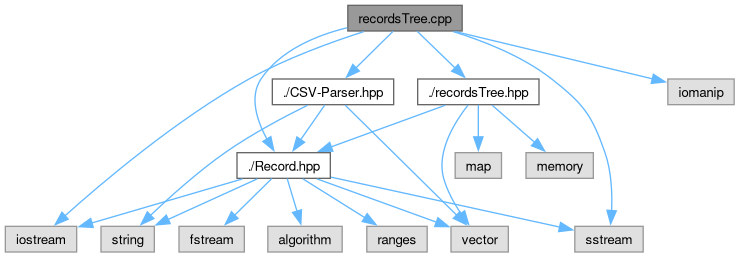
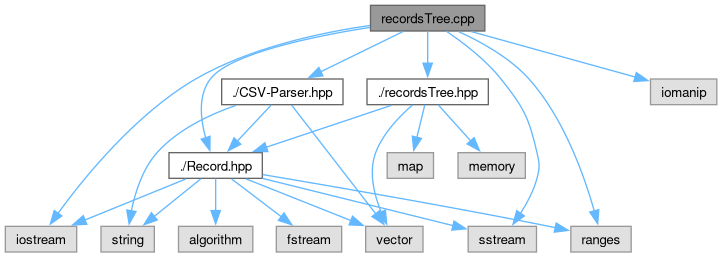
deploy: 806a59bf3311fabaa9fd05d6829696c645dc23da

diff --git a/recordsTree_8hpp_source.html b/recordsTree_8hpp_source.html
@@ -165,14 +165,14 @@ $(function(){initNavTree('recordsTree_8hpp_source.html',''); initResizable(true)
 <div class="ttc" id="aRecord_8hpp_html"><div class="ttname"><a href="Record_8hpp.html">Record.hpp</a></div></div>
 <div class="ttc" id="aclassRecord_html"><div class="ttname"><a href="classRecord.html">Record</a></div><div class="ttdef"><b>Definicja</b> Record.hpp:32</div></div>
 <div class="ttc" id="aclassRecordsTree_html"><div class="ttname"><a href="classRecordsTree.html">RecordsTree</a></div><div class="ttdef"><b>Definicja</b> recordsTree.hpp:45</div></div>
-<div class="ttc" id="aclassRecordsTree_html_a30c33765225f25033ddf4d9f48f968aa"><div class="ttname"><a href="classRecordsTree.html#a30c33765225f25033ddf4d9f48f968aa">RecordsTree::printRecord</a></div><div class="ttdeci">void printRecord()</div><div class="ttdef"><b>Definicja</b> recordsTree.cpp:104</div></div>
+<div class="ttc" id="aclassRecordsTree_html_a30c33765225f25033ddf4d9f48f968aa"><div class="ttname"><a href="classRecordsTree.html#a30c33765225f25033ddf4d9f48f968aa">RecordsTree::printRecord</a></div><div class="ttdeci">void printRecord()</div><div class="ttdef"><b>Definicja</b> recordsTree.cpp:105</div></div>
 <div class="ttc" id="aclassRecordsTree_html_a50c3e5a86d2cb0e8a1c068d033e0ed53"><div class="ttname"><a href="classRecordsTree.html#a50c3e5a86d2cb0e8a1c068d033e0ed53">RecordsTree::years</a></div><div class="ttdeci">std::map&lt; int, YearNode &gt; years</div><div class="ttdef"><b>Definicja</b> recordsTree.hpp:47</div></div>
-<div class="ttc" id="aclassRecordsTree_html_a6e63285e70bcf63eb2f08ca930c93c5e"><div class="ttname"><a href="classRecordsTree.html#a6e63285e70bcf63eb2f08ca930c93c5e">RecordsTree::addRecord</a></div><div class="ttdeci">void addRecord(const Record &amp;record)</div><div class="ttdef"><b>Definicja</b> recordsTree.cpp:42</div></div>
-<div class="ttc" id="aclassRecordsTree_html_a7bac39bf150951e4979a10bd62134f59"><div class="ttname"><a href="classRecordsTree.html#a7bac39bf150951e4979a10bd62134f59">RecordsTree::parseDateTime</a></div><div class="ttdeci">void parseDateTime(const time_t &amp;time, int &amp;year, int &amp;month, int &amp;day, Quarter &amp;quarter)</div><div class="ttdef"><b>Definicja</b> recordsTree.cpp:21</div></div>
-<div class="ttc" id="aclassRecordsTree_html_aa8d5678e420214b6f783897cdb26de4d"><div class="ttname"><a href="classRecordsTree.html#aa8d5678e420214b6f783897cdb26de4d">RecordsTree::sortRecords</a></div><div class="ttdeci">void sortRecords()</div><div class="ttdef"><b>Definicja</b> recordsTree.cpp:110</div></div>
-<div class="ttc" id="aclassRecordsTree_html_aad2cb37e4b0e5fc2344bb765467bb0aa"><div class="ttname"><a href="classRecordsTree.html#aad2cb37e4b0e5fc2344bb765467bb0aa">RecordsTree::printTree</a></div><div class="ttdeci">void printTree() const</div><div class="ttdef"><b>Definicja</b> recordsTree.cpp:100</div></div>
-<div class="ttc" id="aclassRecordsTree_html_ab7cb6e135ba73bda41454532253bffb6"><div class="ttname"><a href="classRecordsTree.html#ab7cb6e135ba73bda41454532253bffb6">RecordsTree::print</a></div><div class="ttdeci">void print(void(*callable)(const Record &amp;Record)) const</div><div class="ttdef"><b>Definicja</b> recordsTree.cpp:50</div></div>
-<div class="ttc" id="aclassRecordsTree_html_ad158c0a392345b8682fef8c664943765"><div class="ttname"><a href="classRecordsTree.html#ad158c0a392345b8682fef8c664943765">RecordsTree::getQuarter</a></div><div class="ttdeci">Quarter getQuarter(const std::string &amp;time)</div><div class="ttdef"><b>Definicja</b> recordsTree.cpp:9</div></div>
+<div class="ttc" id="aclassRecordsTree_html_a6e63285e70bcf63eb2f08ca930c93c5e"><div class="ttname"><a href="classRecordsTree.html#a6e63285e70bcf63eb2f08ca930c93c5e">RecordsTree::addRecord</a></div><div class="ttdeci">void addRecord(const Record &amp;record)</div><div class="ttdef"><b>Definicja</b> recordsTree.cpp:43</div></div>
+<div class="ttc" id="aclassRecordsTree_html_a7bac39bf150951e4979a10bd62134f59"><div class="ttname"><a href="classRecordsTree.html#a7bac39bf150951e4979a10bd62134f59">RecordsTree::parseDateTime</a></div><div class="ttdeci">void parseDateTime(const time_t &amp;time, int &amp;year, int &amp;month, int &amp;day, Quarter &amp;quarter)</div><div class="ttdef"><b>Definicja</b> recordsTree.cpp:22</div></div>
+<div class="ttc" id="aclassRecordsTree_html_aa8d5678e420214b6f783897cdb26de4d"><div class="ttname"><a href="classRecordsTree.html#aa8d5678e420214b6f783897cdb26de4d">RecordsTree::sortRecords</a></div><div class="ttdeci">void sortRecords()</div><div class="ttdef"><b>Definicja</b> recordsTree.cpp:111</div></div>
+<div class="ttc" id="aclassRecordsTree_html_aad2cb37e4b0e5fc2344bb765467bb0aa"><div class="ttname"><a href="classRecordsTree.html#aad2cb37e4b0e5fc2344bb765467bb0aa">RecordsTree::printTree</a></div><div class="ttdeci">void printTree() const</div><div class="ttdef"><b>Definicja</b> recordsTree.cpp:101</div></div>
+<div class="ttc" id="aclassRecordsTree_html_ab7cb6e135ba73bda41454532253bffb6"><div class="ttname"><a href="classRecordsTree.html#ab7cb6e135ba73bda41454532253bffb6">RecordsTree::print</a></div><div class="ttdeci">void print(void(*callable)(const Record &amp;Record)) const</div><div class="ttdef"><b>Definicja</b> recordsTree.cpp:51</div></div>
+<div class="ttc" id="aclassRecordsTree_html_ad158c0a392345b8682fef8c664943765"><div class="ttname"><a href="classRecordsTree.html#ad158c0a392345b8682fef8c664943765">RecordsTree::getQuarter</a></div><div class="ttdeci">Quarter getQuarter(const std::string &amp;time)</div><div class="ttdef"><b>Definicja</b> recordsTree.cpp:10</div></div>
 <div class="ttc" id="arecordsTree_8hpp_html_a90c364256882adf957d344b6e65e495a"><div class="ttname"><a href="recordsTree_8hpp.html#a90c364256882adf957d344b6e65e495a">Quarter</a></div><div class="ttdeci">Quarter</div><div class="ttdef"><b>Definicja</b> recordsTree.hpp:9</div></div>
 <div class="ttc" id="arecordsTree_8hpp_html_a90c364256882adf957d344b6e65e495aa3bb284154c27cd76e8dbac26517addbd"><div class="ttname"><a href="recordsTree_8hpp.html#a90c364256882adf957d344b6e65e495aa3bb284154c27cd76e8dbac26517addbd">Quarter::Q2</a></div><div class="ttdeci">@ Q2</div><div class="ttdef"><b>Definicja</b> recordsTree.hpp:11</div></div>
 <div class="ttc" id="arecordsTree_8hpp_html_a90c364256882adf957d344b6e65e495aa4eebf705200f6e823ef85d95711c3a6c"><div class="ttname"><a href="recordsTree_8hpp.html#a90c364256882adf957d344b6e65e495aa4eebf705200f6e823ef85d95711c3a6c">Quarter::Q3</a></div><div class="ttdeci">@ Q3</div><div class="ttdef"><b>Definicja</b> recordsTree.hpp:12</div></div>

diff --git a/recordsTree_8cpp.html b/recordsTree_8cpp.html
@@ -108,45 +108,47 @@ $(function(){initNavTree('recordsTree_8cpp.html',''); initResizable(true); });
 <code>#include &lt;iostream&gt;</code><br />
 <code>#include &lt;sstream&gt;</code><br />
 <code>#include &lt;iomanip&gt;</code><br />
+<code>#include &lt;ranges&gt;</code><br />
 </div><div class="textblock"><div class="dynheader">
 Wykres zależności załączania dla recordsTree.cpp:</div>
 <div class="dyncontent">
 <div class="center"><img src="recordsTree_8cpp__incl.png" border="0" usemap="#arecordsTree_8cpp" alt=""/></div>
 <map name="arecordsTree_8cpp" id="arecordsTree_8cpp">
-<area shape="rect" title=" " alt="" coords="348,5,462,31"/>
-<area shape="rect" href="recordsTree_8hpp.html" title=" " alt="" coords="418,79,539,105"/>
-<area shape="poly" title=" " alt="" coords="419,29,457,66,453,70,415,33"/>
-<area shape="rect" href="Record_8hpp.html" title=" " alt="" coords="237,153,330,178"/>
-<area shape="poly" title=" " alt="" coords="348,30,301,48,280,62,263,80,258,94,258,109,270,138,265,140,253,110,253,93,259,78,276,58,299,43,347,25"/>
+<area shape="rect" title=" " alt="" coords="370,5,485,31"/>
+<area shape="rect" href="recordsTree_8hpp.html" title=" " alt="" coords="367,79,488,105"/>
+<area shape="poly" title=" " alt="" coords="430,31,430,63,425,63,425,31"/>
+<area shape="rect" href="Record_8hpp.html" title=" " alt="" coords="169,153,262,178"/>
+<area shape="poly" title=" " alt="" coords="371,30,277,50,237,64,212,81,206,93,204,108,208,138,203,138,199,108,201,92,208,77,234,59,275,45,370,25"/>
 <area shape="rect" title=" " alt="" coords="5,226,77,252"/>
-<area shape="poly" title=" " alt="" coords="365,34,309,54,250,81,196,115,145,152,66,218,63,214,142,148,193,111,248,77,307,49,363,29"/>
-<area shape="rect" title=" " alt="" coords="575,226,643,252"/>
-<area shape="poly" title=" " alt="" coords="454,29,504,48,553,77,587,109,608,152,614,182,614,211,609,211,608,183,602,154,583,112,550,81,502,53,452,34"/>
-<area shape="rect" href="CSV-Parser_8hpp.html" title=" " alt="" coords="272,79,394,105"/>
-<area shape="poly" title=" " alt="" coords="395,33,358,70,354,66,391,29"/>
-<area shape="rect" title=" " alt="" coords="668,79,734,105"/>
-<area shape="poly" title=" " alt="" coords="456,29,653,76,652,81,455,34"/>
-<area shape="poly" title=" " alt="" coords="446,108,332,149,330,144,444,103"/>
-<area shape="rect" title=" " alt="" coords="451,226,508,252"/>
-<area shape="poly" title=" " alt="" coords="470,106,451,139,445,158,446,178,463,212,458,215,441,179,440,157,446,137,466,104"/>
-<area shape="rect" title=" " alt="" coords="455,153,502,178"/>
-<area shape="poly" title=" " alt="" coords="481,105,481,137,476,137,476,105"/>
-<area shape="rect" title=" " alt="" coords="526,153,593,178"/>
-<area shape="poly" title=" " alt="" coords="494,103,536,140,533,144,490,107"/>
-<area shape="poly" title=" " alt="" coords="243,181,92,226,91,220,242,176"/>
-<area shape="rect" title=" " alt="" coords="179,226,244,252"/>
-<area shape="poly" title=" " alt="" coords="274,180,237,217,233,213,270,177"/>
+<area shape="poly" title=" " alt="" coords="371,28,286,46,240,61,197,81,154,112,116,148,60,215,56,212,112,144,151,108,194,77,238,56,284,40,369,23"/>
+<area shape="rect" title=" " alt="" coords="468,226,536,252"/>
+<area shape="poly" title=" " alt="" coords="448,29,476,50,503,77,527,112,540,152,542,166,540,179,523,215,518,212,534,178,536,166,534,153,522,114,499,81,472,54,445,33"/>
+<area shape="rect" title=" " alt="" coords="571,226,631,252"/>
+<area shape="poly" title=" " alt="" coords="460,29,496,49,531,77,555,110,574,146,597,210,592,212,569,148,550,113,527,81,493,53,457,34"/>
+<area shape="rect" href="CSV-Parser_8hpp.html" title=" " alt="" coords="222,79,343,105"/>
+<area shape="poly" title=" " alt="" coords="404,34,322,74,320,69,402,29"/>
+<area shape="rect" title=" " alt="" coords="650,79,717,105"/>
+<area shape="poly" title=" " alt="" coords="472,29,636,75,635,80,470,34"/>
+<area shape="poly" title=" " alt="" coords="393,108,267,150,265,145,391,103"/>
+<area shape="rect" title=" " alt="" coords="366,226,423,252"/>
+<area shape="poly" title=" " alt="" coords="414,107,394,127,378,154,375,168,376,183,384,211,379,213,370,184,370,167,373,152,390,124,411,103"/>
+<area shape="rect" title=" " alt="" coords="387,153,434,178"/>
+<area shape="poly" title=" " alt="" coords="427,106,419,138,414,137,422,104"/>
+<area shape="rect" title=" " alt="" coords="458,153,525,178"/>
+<area shape="poly" title=" " alt="" coords="440,103,473,139,469,143,436,107"/>
+<area shape="poly" title=" " alt="" coords="187,181,86,222,84,218,185,176"/>
+<area shape="rect" title=" " alt="" coords="276,226,342,252"/>
+<area shape="poly" title=" " alt="" coords="233,177,283,215,280,219,230,181"/>
 <area shape="rect" title=" " alt="" coords="101,226,154,252"/>
-<area shape="poly" title=" " alt="" coords="258,181,169,222,167,217,256,176"/>
-<area shape="poly" title=" " alt="" coords="332,175,560,224,559,230,330,180"/>
-<area shape="poly" title=" " alt="" coords="318,176,438,220,436,225,316,181"/>
-<area shape="rect" title=" " alt="" coords="268,226,342,252"/>
-<area shape="poly" title=" " alt="" coords="290,178,300,211,294,212,285,179"/>
-<area shape="rect" title=" " alt="" coords="367,226,427,252"/>
-<area shape="poly" title=" " alt="" coords="304,177,366,215,363,220,301,181"/>
-<area shape="poly" title=" " alt="" coords="327,106,303,141,298,138,323,103"/>
-<area shape="poly" title=" " alt="" coords="309,108,269,128,227,155,186,187,152,218,148,214,183,183,223,150,267,124,306,103"/>
-<area shape="poly" title=" " alt="" coords="347,103,459,213,455,217,343,107"/>
+<area shape="poly" title=" " alt="" coords="202,181,156,219,153,214,199,177"/>
+<area shape="poly" title=" " alt="" coords="263,176,454,223,452,228,262,181"/>
+<area shape="poly" title=" " alt="" coords="247,176,352,218,350,223,245,181"/>
+<area shape="rect" title=" " alt="" coords="178,226,253,252"/>
+<area shape="poly" title=" " alt="" coords="218,179,218,211,213,211,213,179"/>
+<area shape="poly" title=" " alt="" coords="263,172,550,224,556,225,555,230,548,229,262,177"/>
+<area shape="poly" title=" " alt="" coords="273,107,239,143,235,139,269,103"/>
+<area shape="poly" title=" " alt="" coords="237,108,196,126,176,139,159,154,143,182,134,212,129,210,138,180,155,151,173,135,193,121,235,103"/>
+<area shape="poly" title=" " alt="" coords="294,103,378,212,374,216,289,107"/>
 </map>
 </div>
 </div></div><!-- contents -->
